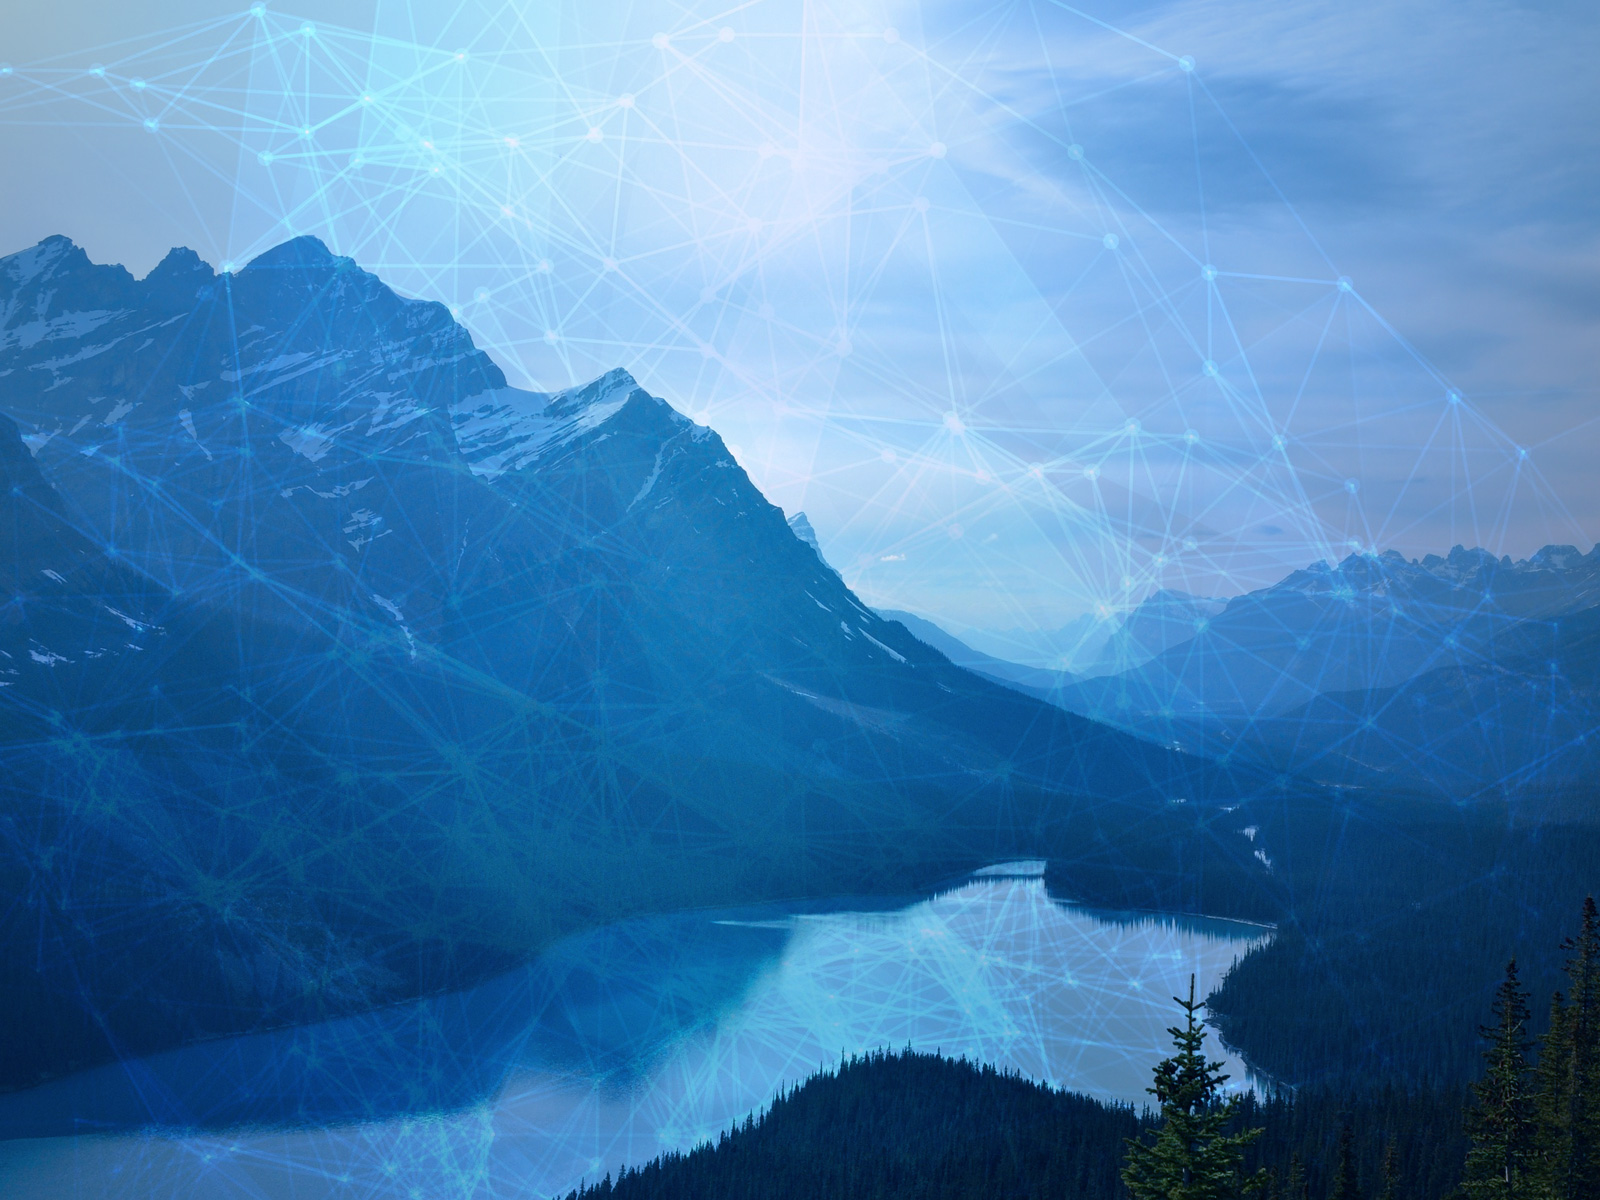
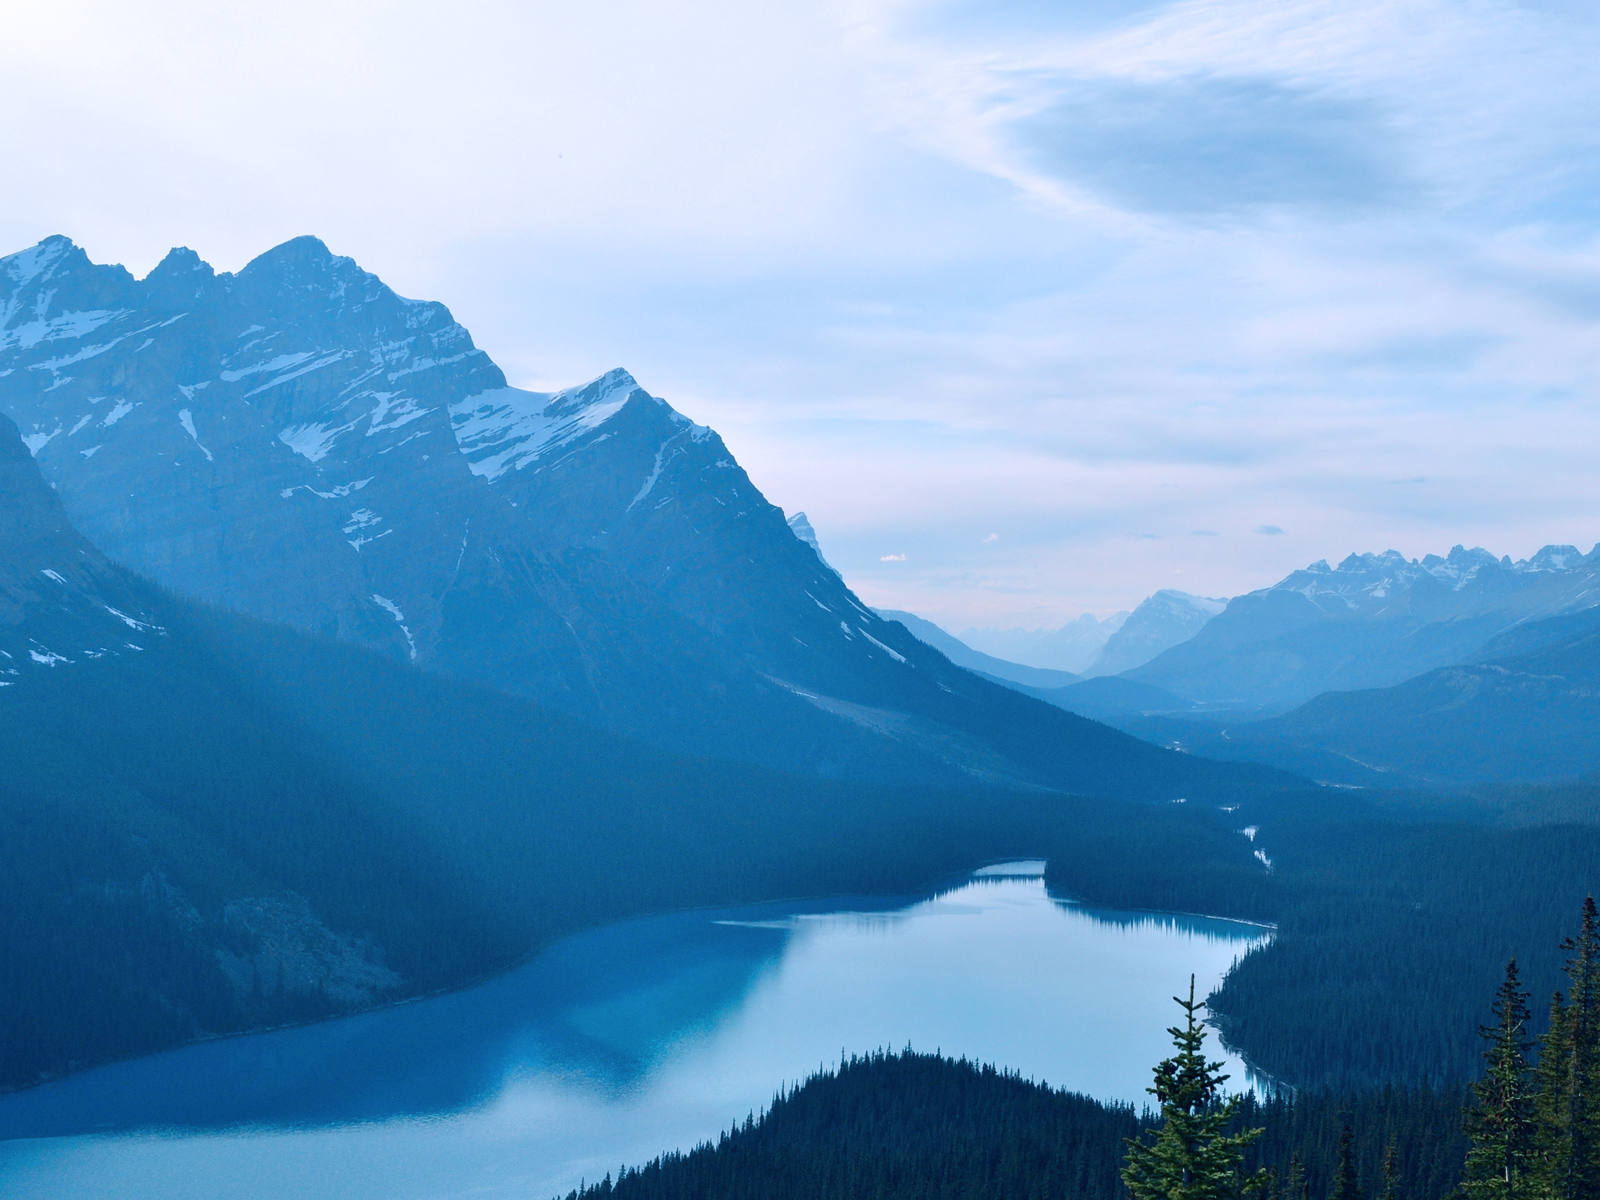
Enabled particlesjs on home page

diff --git a/airbitz/airbitz/static/js/min/home-ui-min.js b/airbitz/airbitz/static/js/min/home-ui-min.js
@@ -1,1 +1,1 @@
-function afterEmailSubmission(i){"success"===i.result&&($(".inputEmail").val(""),$(".inputText").val(""))}var screen_lg="screen and (min-width: 992px)";jQuery(function($){$("#email-signup-form").hide(),$("#email-signup-form").on("click",function(){$.ajaxSetup({crossDomain:!0})}),$("#email-signup-form").ajaxChimp({url:"https://airbitz.us3.list-manage.com/subscribe/post?u=af7e442f9bcaaff857bb5da03&amp;id=b7bd36890d",callback:afterEmailSubmission}),$("#app-demo-slides").mouseenter(function(){$("#see-app-in-action").css("visibility","visible"),$("#see-app-in-action").removeClass("animated fadeOut"),$("#see-app-in-action").addClass("animated fadeIn")}),$(".iphone-app-slider .video").magnificPopup({type:"iframe"}),$(".container .video").magnificPopup({type:"iframe"}),$("#app-demo-slides").carouFredSel({width:212,height:378,auto:{play:!0},scroll:{pauseOnHover:!0,fx:"crossfade",duration:1600,onBefore:function(){$("#see-app-in-action").css("visibility","hidden"),$("#see-app-in-action").removeClass("animated fadeIn"),$("#see-app-in-action").addClass("animated fadeOut")}}}),setTimeout(function(){var i=$("#app-store-links"),e=$(".iphone-slider");$(".landing-module").backstretch("resize"),$(".et_pb_slide_image").show(),i.css("visibility","visible"),i.addClass("slideInLeft"),e.css("visibility","visible"),e.addClass("animated bounceInDown")},1250),$(".ab-app-cta .app-install").hover(function(){$(this).find(".app-store").css({zoom:"110%",transition:"all .25s","-webkit-transition":"all .25s","-moz-transition":"all .25s","-0-transition":"all .25s"})},function(){$(this).find(".app-store").css({zoom:"100%"})}),setTimeout(function(){$(".newsletter-signup").hide(),$("#email-signup-form").fadeIn()},5e3),$("#learn-more-directory").on("click",function(){$("html, body").animate({scrollTop:$("#features-directory").offset().top-65},"slow")})});
+function afterEmailSubmission(i){"success"===i.result&&($(".inputEmail").val(""),$(".inputText").val(""))}var screen_lg="screen and (min-width: 992px)";jQuery(function($){$("#email-signup-form").hide(),$("#email-signup-form").on("click",function(){$.ajaxSetup({crossDomain:!0})}),$("#email-signup-form").ajaxChimp({url:"https://airbitz.us3.list-manage.com/subscribe/post?u=af7e442f9bcaaff857bb5da03&amp;id=b7bd36890d",callback:afterEmailSubmission}),$("#app-demo-slides").mouseenter(function(){$("#see-app-in-action").css("visibility","visible"),$("#see-app-in-action").removeClass("animated fadeOut"),$("#see-app-in-action").addClass("animated fadeIn")}),$(".iphone-app-slider .video").magnificPopup({type:"iframe"}),$(".container .video").magnificPopup({type:"iframe"}),$("#app-demo-slides").carouFredSel({width:212,height:378,auto:{play:!0},scroll:{pauseOnHover:!0,fx:"crossfade",duration:1600,onBefore:function(){$("#see-app-in-action").css("visibility","hidden"),$("#see-app-in-action").removeClass("animated fadeIn"),$("#see-app-in-action").addClass("animated fadeOut")}}}),setTimeout(function(){var i=$("#app-store-links"),e=$(".iphone-slider");$(".landing-module").backstretch("resize"),$(".et_pb_slide_image").show(),i.css("visibility","visible"),i.addClass("slideInLeft"),e.css("visibility","visible"),e.addClass("animated bounceInDown")},1250),$(".ab-app-cta .app-install").hover(function(){$(this).find(".app-store").css({zoom:"110%",transition:"all .25s","-webkit-transition":"all .25s","-moz-transition":"all .25s","-0-transition":"all .25s"})},function(){$(this).find(".app-store").css({zoom:"100%"})}),setTimeout(function(){$(".newsletter-signup").hide(),$("#email-signup-form").fadeIn()},5e3),particlesJS("landing-particles",{particles:{color:"#fff",shape:"circle",opacity:.7,size:6,size_random:!0,nb:150,line_linked:{enable_auto:!0,distance:300,color:"#fff",opacity:.4,width:2,condensed_mode:{enable:!1,rotateX:600,rotateY:600}},anim:{enable:!0,speed:.75}},interactivity:{enable:!0,mouse:{distance:300},detect_on:"canvas",mode:"grab",line_linked:{opacity:.4},events:{onclick:{enable:!0,mode:"push",nb:4}}},retina_detect:!0})});

diff --git a/airbitz/airbitz/static/js/home-ui.js b/airbitz/airbitz/static/js/home-ui.js
@@ -89,12 +89,61 @@ jQuery(function($) {
 
 
 
+/* config dom id (optional) + config particles params */
+particlesJS('landing-particles', {
+  particles: {
+    color: '#fff',
+    shape: 'circle', // "circle", "edge" or "triangle"
+    opacity:.7,
+    size: 6,
+    size_random: true,
+    nb: 150,
+    line_linked: {
+      enable_auto: true,
+      distance: 300,
+      color: '#fff',
+      opacity:.4,
+      width: 2,
+      condensed_mode: {
+        enable: false,
+        rotateX: 600,
+        rotateY: 600
+      }
+    },
+    anim: {
+      enable: true,
+      speed:.75
+    }
+  },
+  interactivity: {
+    enable: true,
+    mouse: {
+      distance: 300
+    },
+    detect_on: 'canvas', // "canvas" or "window"
+    mode: 'grab',
+    line_linked: {
+      opacity: .4
+    },
+    events: {
+      onclick: {
+        enable: true,
+        mode: 'push', // "push" or "remove"
+        nb: 4
+      }
+    }
+  },
+  /* Retina Display Support */
+  retina_detect: true
+});
+
+
 // BUTTON SCROLL AND DRAW ATTENTION
 //  $('#learn-more-wallet').on('click', function(){
 //    $("html, body").animate({ scrollTop: $('#features-wallet').offset().top - 65 }, "slow");
 //  });
-  $('#learn-more-directory').on('click', function(){
-    $("html, body").animate({ scrollTop: $('#features-directory').offset().top - 65 }, "slow");
-  });
+//  $('#learn-more-directory').on('click', function(){
+//    $("html, body").animate({ scrollTop: $('#features-directory').offset().top - 65 }, "slow");
+//  });
 
 });

diff --git a/airbitz/directory/templates/home.html b/airbitz/directory/templates/home.html
@@ -129,6 +129,7 @@
 
 <div class="landing-module container-fluid">
 
+  <div id="landing-particles" style="position: absolute; width: 100%; height: 100%;"></div>
   <div class="container">
 
     <div class="row">

diff --git a/airbitz/airbitz/settings.py b/airbitz/airbitz/settings.py
@@ -342,6 +342,7 @@ PIPELINE_JS = {
             'extras/ajaxchimp/jquery.ajaxchimp.js',
             'extras/carouFredSel-6.2.1/jquery.carouFredSel-6.2.1-packed.js',
             'extras/Magnific-Popup-master/dist/jquery.magnific-popup.js',
+            'extras/particlesjs/particles.js',
             'js/home-ui.js',
         ),
         'output_filename': 'js/home.' + DEPLOY_DATE + '.js',
